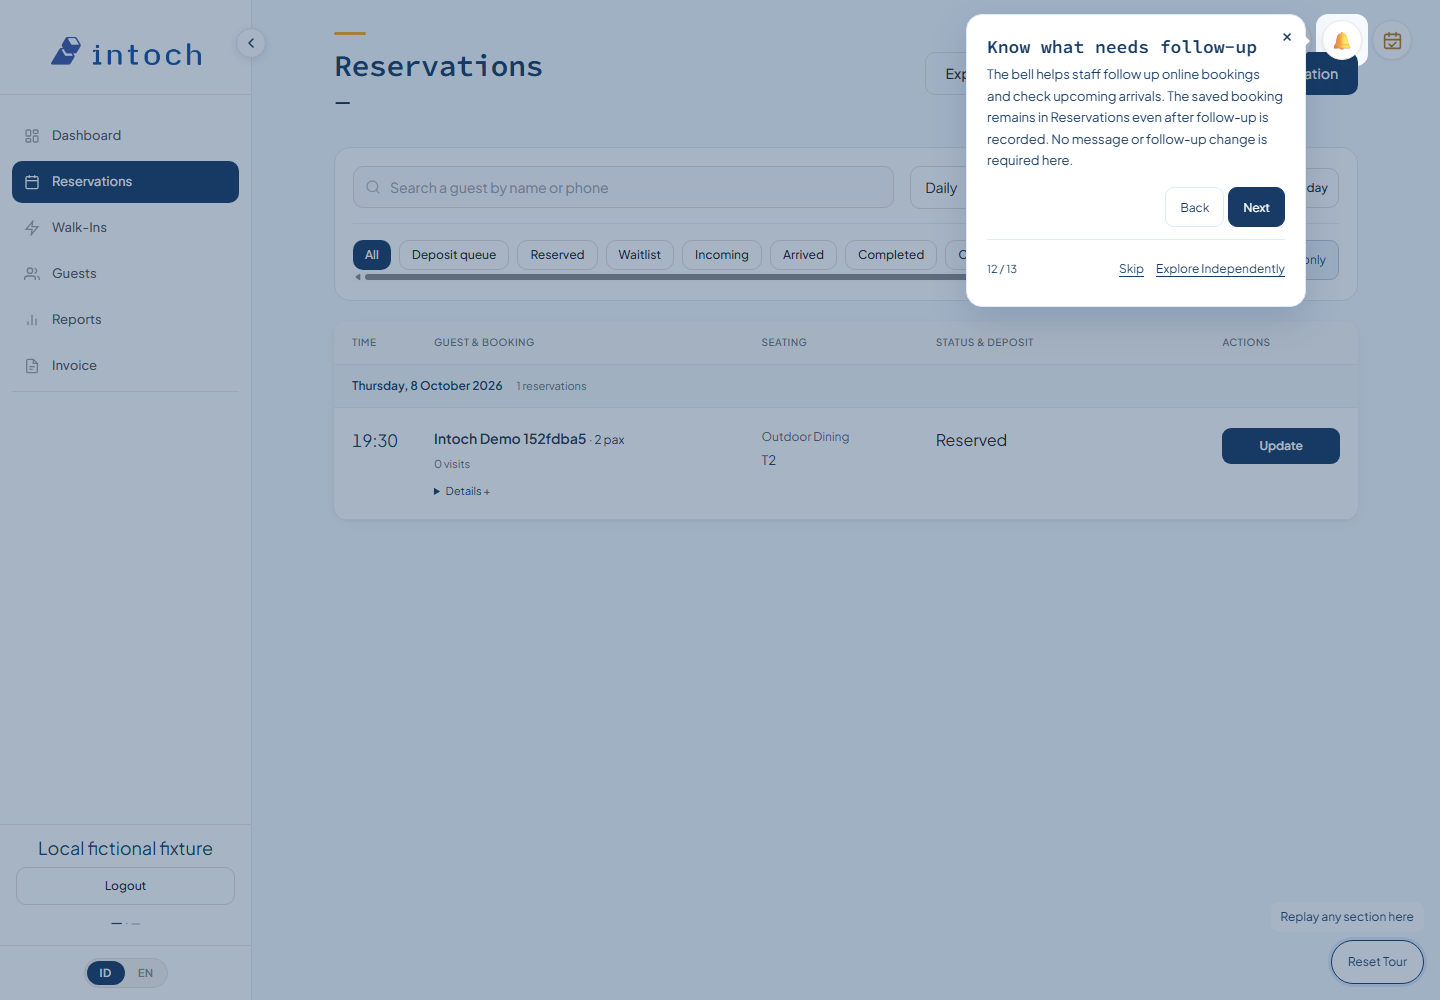
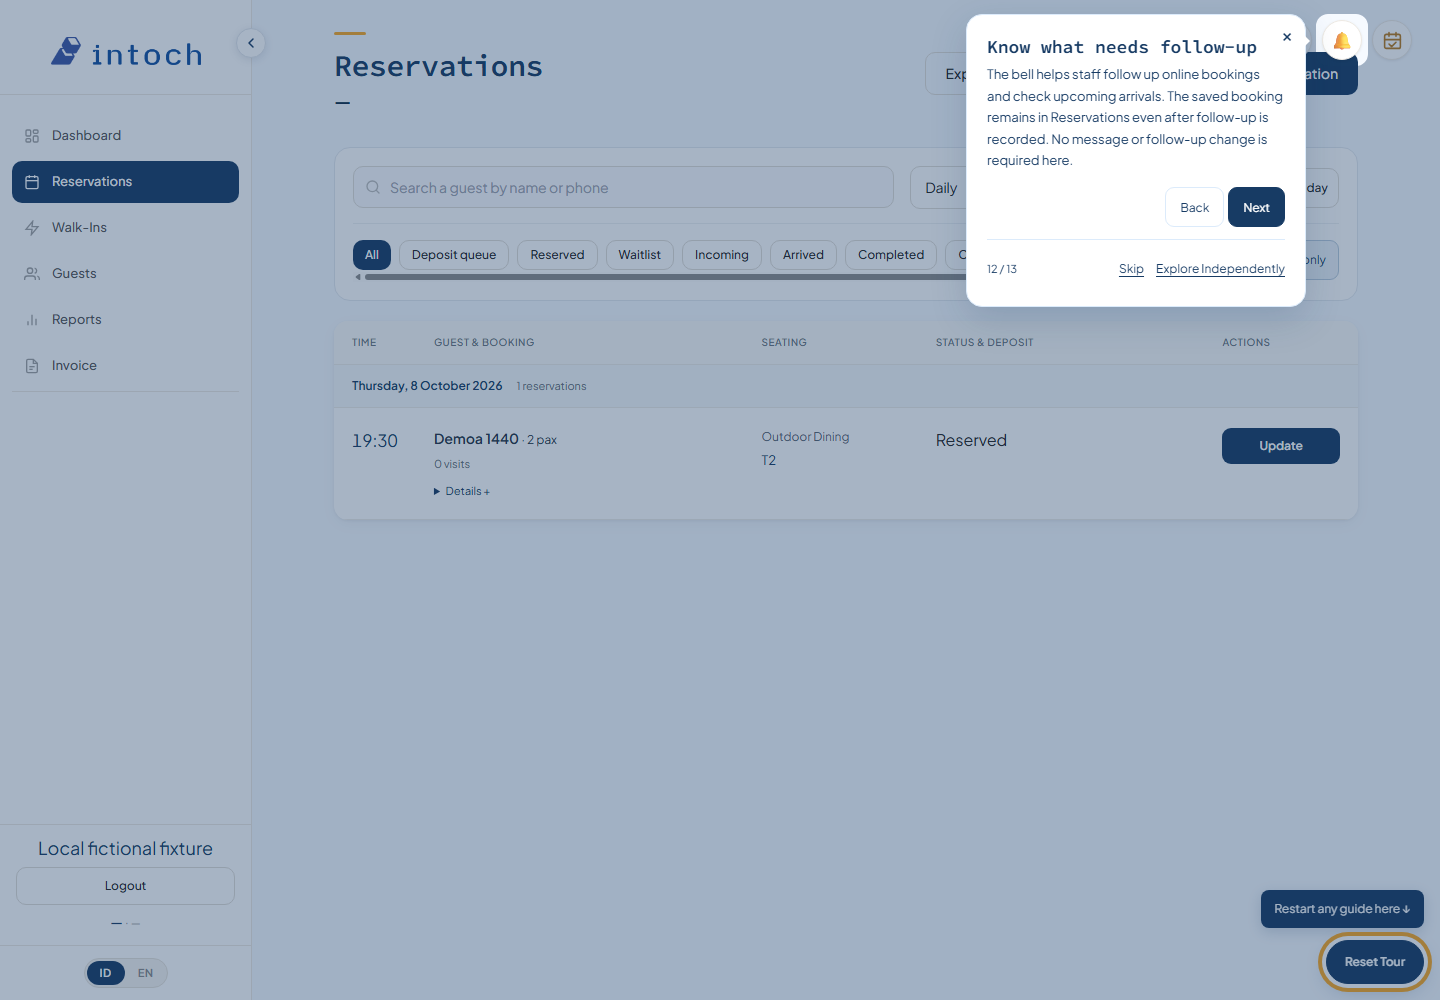
fix(demo): accept user-chosen guest names in booking guide

Changed region(s): [[0.875, 0.868, 1.0, 0.992], [0.3125, 0.434, 0.4062, 0.465]]

diff --git a/js/demo-booking-tour.js b/js/demo-booking-tour.js
@@ -21,7 +21,7 @@
   function read() {
     try {
       const value = JSON.parse(sessionStorage.getItem(key()));
-      return value?.version === VERSION && value.expires > Date.now() && /^Intoch Demo [0-9a-f]{8}$/.test(value.name) && /^000\d{9}$/.test(value.phone) ? value : null;
+      return value?.version === VERSION && value.expires > Date.now() && typeof value.name === "string" && value.name.trim().length >= 2 && /^000\d{9}$/.test(value.phone) ? value : null;
     } catch { return null; }
   }
   function save() {
@@ -44,7 +44,7 @@
   function catalog() {
     return [
       { id: "launch", context: "staff", target: "form-link", action: "launch", title: text("Book as a guest", "Reservasi sebagai tamu"), copy: text("Open the real online form. You will enter fictional details and submit the booking yourself, then return here to see how your team receives it. No payment or message is needed.", "Buka formulir online yang sebenarnya. Anda akan memasukkan detail fiktif dan mengirim reservasi sendiri, lalu kembali untuk melihat cara tim menerimanya. Tidak perlu pembayaran atau pesan.") },
-      { id: "name", context: "form", target: "name", action: "input", title: text("Introduce your demo guest", "Perkenalkan tamu demo"), copy: text(`Enter ${state?.name}. This unique fictional name helps you recognize your booking later.`, `Masukkan ${state?.name}. Nama fiktif unik ini membantu Anda menemukan reservasi nanti.`) },
+      { id: "name", context: "form", target: "name", action: "input", title: text("Introduce your demo guest", "Perkenalkan tamu demo"), copy: text("Enter any made-up guest name, such as Demoa. When you're done typing, click Next.", "Masukkan nama tamu fiktif apa saja, misalnya Demoa. Setelah selesai mengetik, klik Lanjut.") },
       { id: "phone", context: "form", target: "phone", action: "input", title: text("Use a fictional contact", "Gunakan kontak fiktif"), copy: text(`Enter ${state?.phone}, a demo-only number starting with 000. Use these fictional details throughout; no WhatsApp message is sent by this guide.`, `Masukkan ${state?.phone}, nomor khusus demo dengan awalan 000. Gunakan detail fiktif ini; panduan tidak mengirim pesan WhatsApp.`) },
       { id: "party", context: "form", target: "party", title: text("Choose the party size", "Pilih jumlah tamu"), copy: text("Keep this example to two guests. Party size and the chosen area determine available seating and any deposit conditions.", "Gunakan dua tamu untuk contoh ini. Jumlah tamu dan area menentukan ketersediaan tempat duduk dan ketentuan deposit.") },
       { id: "schedule", context: "form", target: "schedule", action: "schedule", title: text("Choose an available visit", "Pilih kunjungan yang tersedia"), copy: text("Choose an area if offered, a date within the next 14 days, and an available time. This keeps the example in the dashboard's online overview. Availability and any conditions come from the real form.", "Pilih area jika tersedia, tanggal dalam 14 hari ke depan, dan waktu yang tersedia. Contoh ini akan masuk ke ringkasan online dashboard. Ketersediaan dan ketentuan berasal dari formulir sebenarnya.") },
@@ -113,7 +113,13 @@
   function move(step) { if (!valid()) return; state.step = step; state.paused = false; pending = false; save(); show().catch(() => pause()); }
   function next(action = false) {
     if (!valid() || state.paused) return;
-    const item = current(); if (item.action && !action) return;
+    const item = current();
+    if (item.id === "name") {
+      const name = document.getElementById("f-name")?.value.trim() || "";
+      if (name.length < 2) return;
+      state.name = name; save(); action = true;
+    }
+    if (item.action && !action) return;
     if (item.id === "finish") return exit("completed");
     if (item.id === "saved") { state.step = "online"; state.autoResume = true; state.paused = false; save(); return location.assign("/"); }
     move(catalog()[catalog().findIndex(step => step.id === item.id) + 1].id);
@@ -166,7 +172,8 @@
       },
       onPopoverRender:popover => {
         popover.wrapper.setAttribute("role","dialog"); popover.wrapper.setAttribute("aria-label",item.title);
-        popover.nextButton.disabled = !!item.action; popover.nextButton.classList.toggle("driver-popover-btn-disabled",!!item.action);
+        const blocked = !!item.action && !(item.id === "name" && (document.getElementById("f-name")?.value.trim().length || 0) >= 2);
+        popover.nextButton.disabled = blocked; popover.nextButton.classList.toggle("driver-popover-btn-disabled",blocked);
         popover.previousButton.disabled = ["launch","saved","online"].includes(item.id);
         popover.previousButton.classList.toggle("driver-popover-btn-disabled",popover.previousButton.disabled);
         popover.nextButton.textContent = item.id === "saved" ? text("Return to Dashboard","Kembali ke Dashboard") : item.id === "finish" ? text("Finish","Selesai") : text("Next","Lanjut");
@@ -190,17 +197,22 @@
   }
   function inputAction() {
     if (!valid() || state.paused) return;
-    if (state.step === "name" && document.getElementById("f-name")?.value.trim() === state.name) next(true);
+    if (state.step === "name") {
+      const nextButton = document.querySelector(".intoch-online-tour .driver-popover-next-btn");
+      const blocked = (document.getElementById("f-name")?.value.trim().length || 0) < 2;
+      if (nextButton) { nextButton.disabled = blocked; nextButton.classList.toggle("driver-popover-btn-disabled",blocked); }
+    }
     else if (state.step === "phone" && document.getElementById("f-phone")?.value.trim() === state.phone) next(true);
     else if (state.step === "schedule" && scheduleValid()) next(true);
   }
   function captureSubmit(event) {
     if (!valid() || state.paused || event.target.id !== "res-form") return;
-    if (state.step !== "submit" || !scheduleValid() || document.getElementById("f-name")?.value.trim() !== state.name || document.getElementById("f-phone")?.value.trim() !== state.phone || state.reservationId) {
+    if (state.step !== "submit" || !scheduleValid() || (document.getElementById("f-name")?.value.trim().length || 0) < 2 || document.getElementById("f-phone")?.value.trim() !== state.phone || state.reservationId) {
       event.preventDefault(); event.stopImmediatePropagation();
-      pause(text("Use the fictional name and 000 contact, choose two guests and a valid date/time, then resume. The guide has not submitted anything.", "Gunakan nama fiktif dan kontak 000, pilih dua tamu serta tanggal/waktu yang valid, lalu lanjutkan. Panduan belum mengirim apa pun.")); return;
+      pause(text("Enter a made-up name with at least two characters and use the 000 contact, choose two guests and a valid date/time, then resume. The guide has not submitted anything.", "Masukkan nama fiktif minimal dua karakter dan gunakan kontak 000, pilih dua tamu serta tanggal/waktu yang valid, lalu lanjutkan. Panduan belum mengirim apa pun.")); return;
     }
     if (state.submissionAttempted) { event.preventDefault(); event.stopImmediatePropagation(); return pause(text("This submission may already have been saved. Check Dashboard before trying again.", "Pengiriman ini mungkin sudah tersimpan. Periksa Dashboard sebelum mencoba lagi.")); }
+    state.name = document.getElementById("f-name").value.trim();
     state.submissionAttempted = true; state.date = document.getElementById("f-date").value; save();
     pending = true;
   }

diff --git a/tests/demo-booking-tour.test.js b/tests/demo-booking-tour.test.js
@@ -28,14 +28,14 @@ async function harness(context='staff',previous=null,options={}) {
  return {win,dom,errors,title,until,click,input,active,snapshot};
 }
 async function launch(){let h=await harness();await h.until(()=>h.win.document.getElementById('demo-online-guide'));h.click('#demo-online-guide');await h.until(()=>h.title()==='Book as a guest');assert.equal(h.win.document.querySelector('.driver-popover-next-btn').disabled,true);h.click('[data-booking-tour="form-link"]');const saved=h.snapshot();assert.equal(h.active().step,'name');h.dom.window.close();return saved;}
-async function fill(saved){const h=await harness('form',saved);await h.until(()=>h.title()==='Introduce your demo guest');h.input('f-name','Wrong name');assert.equal(h.title(),'Introduce your demo guest');h.input('f-name',h.active().name);await h.until(()=>h.title()==='Use a fictional contact');h.input('f-phone',h.active().phone);await h.until(()=>h.title()==='Choose the party size');h.click('.driver-popover-next-btn');await h.until(()=>h.title()==='Choose an available visit');h.click('#time-pills button');await h.until(()=>h.title()==='Create the demo booking');assert.equal(h.win.localStorage.getItem('intoch-fixture-booking-writes'),null);return h;}
+async function fill(saved){const h=await harness('form',saved);await h.until(()=>h.title()==='Introduce your demo guest');h.input('f-name',' ');h.click('.driver-popover-next-btn');assert.equal(h.title(),'Introduce your demo guest');h.input('f-name','D');assert.equal(h.win.document.querySelector('.driver-popover-next-btn').disabled,true);h.input('f-name','Demoa');assert.equal(h.title(),'Introduce your demo guest','Typing never advances mid-name');assert.equal(h.win.document.querySelector('.driver-popover-next-btn').disabled,false);h.click('.driver-popover-next-btn');await h.until(()=>h.title()==='Use a fictional contact');assert.equal(h.active().name,'Demoa');h.input('f-phone',h.active().phone);await h.until(()=>h.title()==='Choose the party size');h.click('.driver-popover-next-btn');await h.until(()=>h.title()==='Choose an available visit');h.click('#time-pills button');await h.until(()=>h.title()==='Create the demo booking');assert.equal(h.win.localStorage.getItem('intoch-fixture-booking-writes'),null);return h;}
 (async()=>{
  let h=await harness('form');await sleep(100);assert.equal(h.title(),undefined,'Normal public guests get no guide');assert.equal(h.win.document.getElementById('demo-public-reset'),null);h.dom.window.close();
  h=await harness('staff',null,{origin:'https://client.example'});assert.equal(h.win.document.getElementById('demo-online-guide'),null);h.dom.window.close();
  let saved=await launch();
  h=await harness('form',saved);await h.until(()=>h.title()==='Introduce your demo guest');h.click('.driver-popover-close-btn');assert.equal(h.active(),null);assert.equal(h.win.document.getElementById('demo-public-reset').getAttribute('href'),'/','Public Close offers explicit dashboard return');assert.equal(h.win.localStorage.getItem('intoch-fixture-booking-writes'),null);h.win.fixture.signOut();assert.equal(h.win.document.getElementById('demo-public-reset'),null,'Logout removes public reset');h.dom.window.close();
  h=await harness('form',saved,{setup:'fixture.authValid=false;'});await sleep(120);assert.equal(h.title(),undefined);assert.equal(h.active(),null,'Unverified staff cannot activate form guide');h.dom.window.close();
- h=await fill(saved);h.win.fixture.delay=100;h.click('#btn-submit');await sleep(30);assert.equal(h.active().step,'submit','Server success is required');await h.until(()=>h.active()?.step==='saved');assert.equal(h.win.localStorage.getItem('intoch-fixture-booking-writes'),'1');assert.ok(h.active().reservationId);saved=h.snapshot();h.dom.window.close();
+ h=await fill(saved);h.input('f-name',"Demo O'Connor & Friends");h.win.fixture.delay=100;h.click('#btn-submit');await sleep(30);assert.equal(h.active().step,'submit','Server success is required');await h.until(()=>h.active()?.step==='saved');assert.equal(h.win.localStorage.getItem('intoch-fixture-booking-writes'),'1');assert.ok(h.active().reservationId);assert.equal(h.active().name,"Demo O'Connor & Friends",'Track the actual submitted name even if edited after the name step');saved=h.snapshot();h.dom.window.close();
  h=await harness('created',saved);await h.until(()=>h.title()==='Read the booking outcome');assert.match(h.win.document.querySelector('.driver-popover-description').textContent,/booking is reserved/);assert.equal(h.win.document.querySelector('.driver-popover-prev-btn').disabled,true,'Back cannot replay a save');h.click('.driver-popover-next-btn');saved=h.snapshot();assert.equal(h.active().step,'online');h.dom.window.close();
  h=await harness('staff',saved,{mobile:true});await h.until(()=>h.title()==='See online bookings arrive');h.win.fixture.delay=100;h.click('[data-booking-tour="online-tab"]');await sleep(20);assert.equal(h.title(),'See online bookings arrive');await h.until(()=>h.title()==='Open your booking day');h.click('.driver-popover-prev-btn');await h.until(()=>h.title()==='See online bookings arrive');h.click('[data-booking-tour="online-tab"]');await h.until(()=>h.title()==='Open your booking day');h.click('[data-booking-tour="day"]');await h.until(()=>h.title()==="Your guest's booking is here");assert.equal(h.active().reservationId,h.win.document.querySelector('[data-booking-tour="row"]').dataset.bookingId);
  saved=h.snapshot();h.dom.window.close();h=await harness('staff',saved);await h.until(()=>h.win.document.querySelector('.demo-tour-dock'));h.click('.demo-tour-dock button');await h.until(()=>h.title()==="Your guest's booking is here",'Reload restores exact booking/day');h.click('.driver-popover-next-btn');await h.until(()=>h.title()==='Understand its status');h.click('.driver-popover-next-btn');await h.until(()=>h.title()==='Know what needs follow-up');h.click('.driver-popover-next-btn');await h.until(()=>h.title()==='Guest to front desk, connected');h.click('.driver-popover-next-btn');assert.equal(h.active(),null);assert.equal(h.win.localStorage.getItem('intoch-fixture-booking-writes'),'1');assert.equal(h.win.localStorage.getItem('intoch:online-demo:v1:https://hkrhsubhfqrgqkuhpvql.supabase.co:fixture-admin:seen'),'completed');h.dom.window.close();

diff --git a/index.html b/index.html
@@ -9481,7 +9481,7 @@ Pembayaran downpayment dapat dilakukan melalui QRIS</textarea
     <script src="js/demo-tour-environment.js?v=2"></script>
     <script src="js/demo-login.js?v=1"></script>
     <script src="js/demo-tour.js?v=5"></script>
-    <script src="js/demo-booking-tour.js?v=3"></script>
+    <script src="js/demo-booking-tour.js?v=4"></script>
     <script src="js/app.js?v=65"></script>
     <script src="js/reservation-extras.js?v=3"></script>
     <script src="js/membership.js?v=7"></script>

diff --git a/reserve.template.html b/reserve.template.html
@@ -2318,6 +2318,6 @@
     </script>
     <script src="assets/vendor/driverjs/1.9.0/driver.js.iife.js"></script>
     <script src="js/demo-tour-environment.js?v=2"></script>
-    <script src="js/demo-booking-tour.js?v=3"></script>
+    <script src="js/demo-booking-tour.js?v=4"></script>
   </body>
 </html>

diff --git a/reservation-created.template.html b/reservation-created.template.html
@@ -590,6 +590,6 @@
     </script>
     <script src="assets/vendor/driverjs/1.9.0/driver.js.iife.js"></script>
     <script src="js/demo-tour-environment.js?v=2"></script>
-    <script src="js/demo-booking-tour.js?v=3"></script>
+    <script src="js/demo-booking-tour.js?v=4"></script>
   </body>
 </html>

diff --git a/docs/DEMO_ONLINE_GUIDE.md b/docs/DEMO_ONLINE_GUIDE.md
@@ -8,7 +8,7 @@ guidance. The regular dashboard/customer tour remains separate.
 
 1. Click the existing online form link. During this guide it opens in the same tab;
    independent use retains its original new-tab behavior.
-2. Enter the generated fictional name (`Intoch Demo` plus an eight-character suffix).
+2. Enter any made-up name, such as `Demoa`, using at least two characters. Click Next when finished typing; the guide does not advance mid-name.
 3. Enter the generated fictional contact number beginning with `000`. This is not
    a recipient for real communication. Guided submission requires these exact values.
 4. Keep the party to two guests and review how party size affects availability.
@@ -57,7 +57,7 @@ only when the user submits again; Reset Demo Data remains a separate improvement
   are not supported in this phase.
 - Missing targets and failed reads pause, with independent exploration available.
   An interrupted submission is marked uncertain: reload never retries it. The user
-  can check the dashboard, and recovery reads the unique fictional guest/contact,
+  can check the dashboard, and recovery reads the unique fictional contact,
   date and creation window before accepting exactly one matching online booking.
   Zero or ambiguous results stay paused; no duplicate is created automatically.
 - A full/closed slot or server rejection stays in the form for correction. The guide
@@ -104,3 +104,9 @@ and the persistent Reset Tour picker. Staff-side Skip/Close/Escape/Explore highl
 Reset Tour; public-form dismissal offers an explicit dashboard return link after
 Auth verification, preserving normal public visitors' experience. These controls
 restart guidance only and never delete or reset the booking already created.
+
+Name entry accepts any made-up name using the existing form's two-character minimum.
+Next is enabled once valid, but progression waits for an explicit click so users can
+finish typing. The guide captures the actual name again at submission and persists
+it for copy/recovery. The returned reservation ID and unique fictional 000 contact,
+not a generated name, identify the booking. Existing saved V1 names still recover.

diff --git a/docs/CURRENT_STATE.md b/docs/CURRENT_STATE.md
@@ -1,5 +1,16 @@
 # Current state and operational handoff
 
+Online-guide name entry simplification (2026-10-08; local): user chose arbitrary
+made-up names instead of typing an exact generated name. The name step uses the
+existing form's two-character minimum and enables Next without advancing mid-typing.
+The actual submitted name is persisted; saved-booking checks still require the
+returned reservation ID and fictional unique 000 contact. V1 recovery accepts custom
+names and older generated names. No changes to ordinary booking forms or Auth/RLS.
+Targeted online-guide tests pass, including custom-name submission/reload and
+uncertain-save recovery. Chrome fixture flow checked at 1440px, 393px and 320px;
+updated name-entry screenshots in docs/screens/demo-online-booking. No live booking
+submissions, push or deployment.
+
 Reset Tour visibility polish (2026-10-08; local): persistent reset button now uses
 Intoch navy with white text. Non-continuing exits and guide completion show a strong
 static amber ring and “Restart any guide here ↓” hint for ten seconds. No extra
